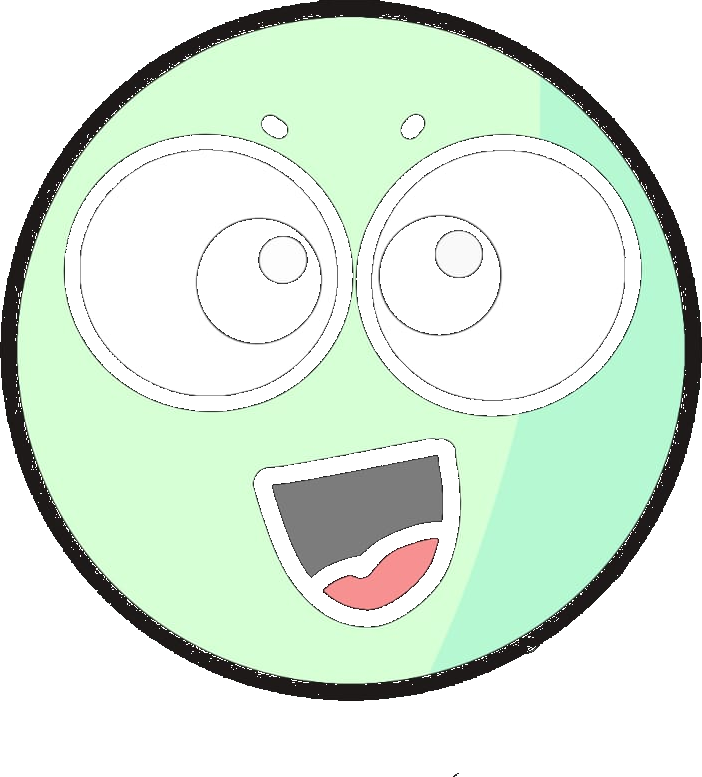
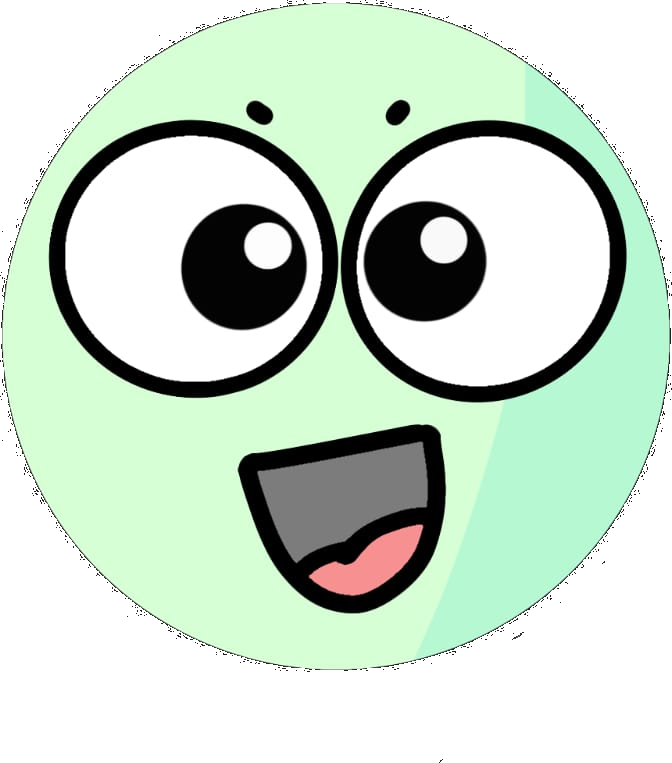
mention

Changed region(s): [[0.0, 0.0, 1.0, 0.9043], [0.625, 0.9948, 0.6562, 1.0]]

diff --git a/src/Shop.svelte b/src/Shop.svelte
@@ -368,6 +368,15 @@
   </section>
 </main>
 
+<footer class="site-footer">
+  <div class="section-shell footer-layout">
+    <a href="https://hackclub.com">Hack Club</a>
+    <a href="https://hackclub.com/privacy-and-terms">Privacy &amp; Terms</a>
+    <a href="https://github.com/johnathanmcphilbin/Buddy" target="_blank" rel="noopener">GitHub</a>
+    <a href="https://callum-moody.carrd.co/" target="_blank" rel="noopener">Art by Callum Moody</a>
+  </div>
+</footer>
+
 {#if selectedItem}
   <div class="modal-backdrop" role="presentation" on:click={closeModal}>
     <div class="modal-panel" role="dialog" aria-modal="true" on:click|stopPropagation>

diff --git a/submit.html b/submit.html
@@ -4,7 +4,7 @@
     <meta charset="UTF-8" />
     <meta name="viewport" content="width=device-width, initial-scale=1.0" />
     <title>Submit Buddy</title>
-    <link rel="icon" type="image/png" href="/images/buddy.png" />
+    <link rel="icon" type="image/png" href="/images/buddy-star.png" />
     <link rel="preconnect" href="https://fonts.googleapis.com" />
     <link rel="preconnect" href="https://fonts.gstatic.com" crossorigin />
     <link

diff --git a/shop.html b/shop.html
@@ -4,7 +4,7 @@
     <meta charset="UTF-8" />
     <meta name="viewport" content="width=device-width, initial-scale=1.0" />
     <title>Buddy Shop</title>
-    <link rel="icon" type="image/png" href="/images/buddy.png" />
+    <link rel="icon" type="image/png" href="/images/buddy-star.png" />
     <link rel="preconnect" href="https://fonts.googleapis.com" />
     <link rel="preconnect" href="https://fonts.gstatic.com" crossorigin />
     <link

diff --git a/index.html b/index.html
@@ -4,7 +4,7 @@
     <meta charset="UTF-8" />
     <meta name="viewport" content="width=device-width, initial-scale=1.0" />
     <title>Buddy</title>
-    <link rel="icon" type="image/png" href="/images/buddy.png" />
+    <link rel="icon" type="image/png" href="/images/buddy-star.png" />
     <link rel="preconnect" href="https://fonts.googleapis.com" />
     <link rel="preconnect" href="https://fonts.gstatic.com" crossorigin />
     <link

diff --git a/src/lib/Mascot.svelte b/src/lib/Mascot.svelte
@@ -6,7 +6,7 @@
 
 <figure class="mascot" style={`--mascot-size:${size}px`}>
   <div class="mascot-stage">
-    <img class="mascot-image" src="/images/buddy.png" alt="Buddy" width={size} height={size} />
+    <img class="mascot-image" src="/images/buddy-excited.png" alt="Buddy" width={size} height={size} />
   </div>
   {#if caption}
     <figcaption>{caption}</figcaption>

diff --git a/src/Submit.svelte b/src/Submit.svelte
@@ -308,6 +308,7 @@
     <a href="https://hackclub.com">Hack Club</a>
     <a href="https://hackclub.com/privacy-and-terms">Privacy &amp; Terms</a>
     <a href="https://github.com/johnathanmcphilbin/Buddy" target="_blank" rel="noopener">GitHub</a>
+    <a href="https://callum-moody.carrd.co/" target="_blank" rel="noopener">Art by Callum Moody</a>
   </div>
 </footer>
 

diff --git a/src/App.svelte b/src/App.svelte
@@ -314,5 +314,6 @@
     <a href="https://hackclub.com">Hack Club</a>
     <a href="https://hackclub.com/privacy-and-terms">Privacy &amp; Terms</a>
     <a href="https://github.com/johnathanmcphilbin/Buddy" target="_blank" rel="noopener">GitHub</a>
+    <a href="https://callum-moody.carrd.co/" target="_blank" rel="noopener">Art by Callum Moody</a>
   </div>
 </footer>
